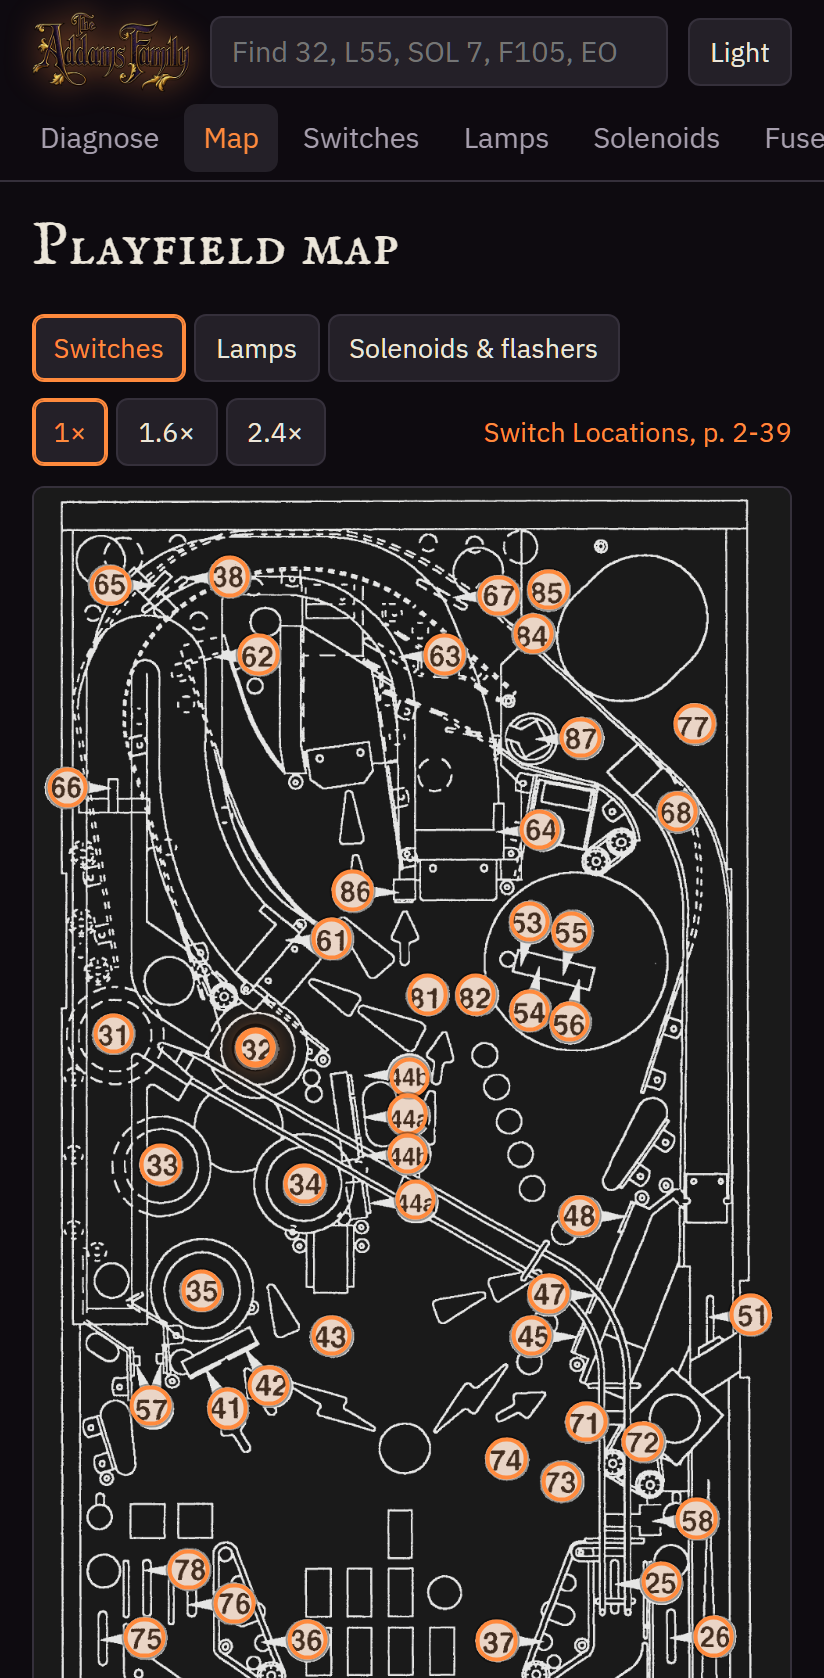
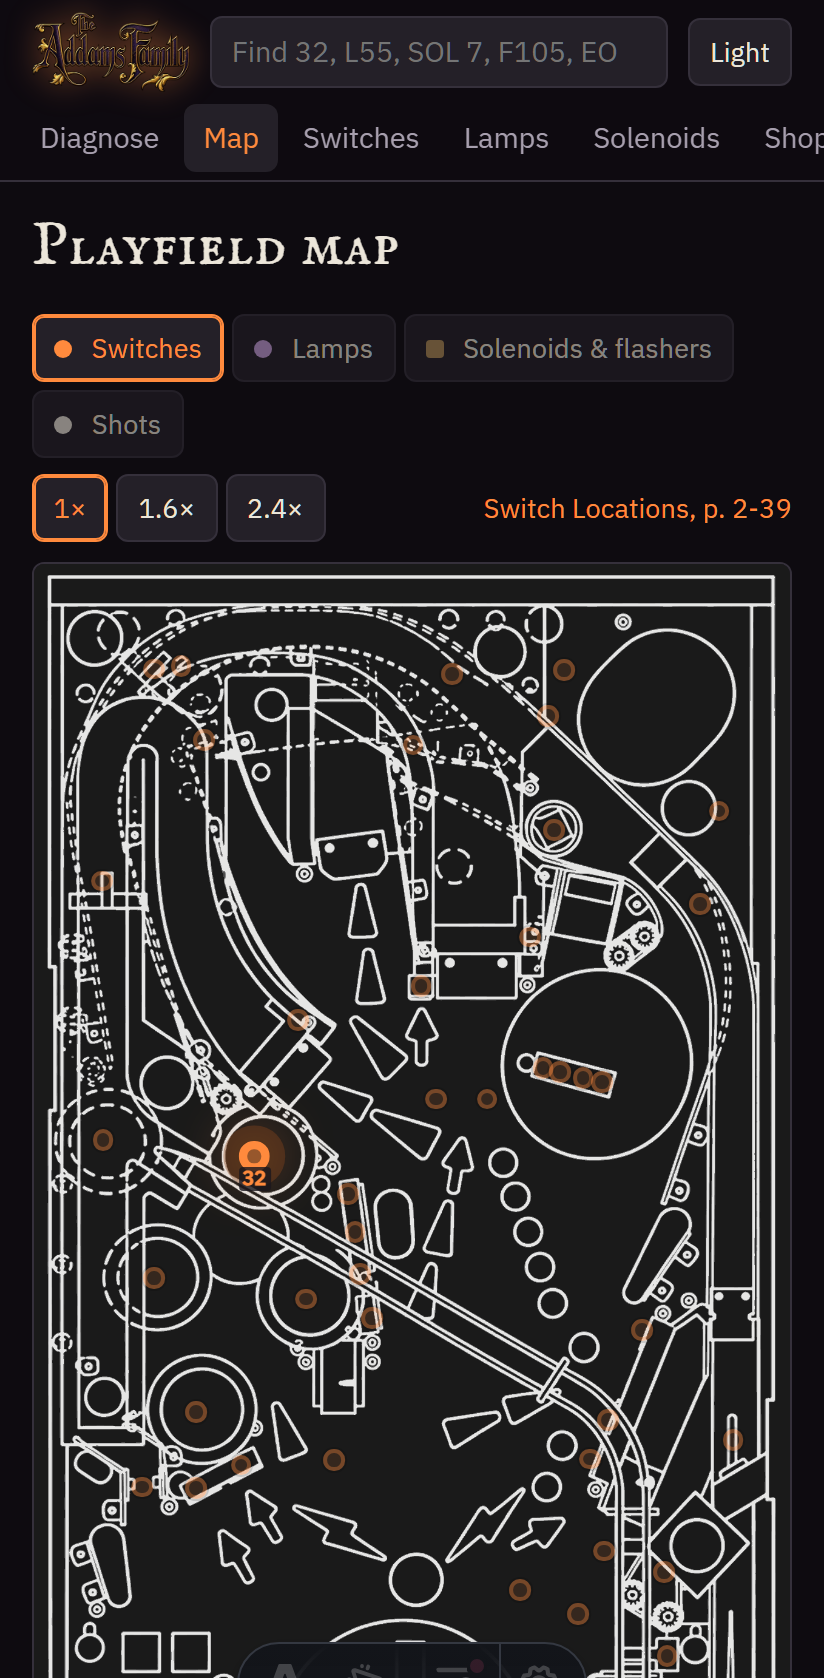
Update playfield map and appendices integration; refine calibration details and enhance documentation

Changed region(s): [[0.0303, 0.1859, 0.9709, 1.0], [0.9405, 0.062, 1.0, 0.093]]

diff --git a/src/components/PlayfieldMap.svelte b/src/components/PlayfieldMap.svelte
@@ -382,9 +382,9 @@
           <h2>Playfield</h2>
           <p class="muted">Tap a marker on the drawing, or pick from the list.</p>
           <p class="prov">
-            Positions are remapped from the manual's location maps (pages 2-39 to 2-41) and shot
-            maps (PDF pages 9–10). A marker that still sits beside its part is where the printed
-            callout was.
+            Positions were remapped from the manual's location maps (pages 2-39 to 2-41) and shot
+            maps (PDF pages 9–10), then placed by hand over the original scans. Off-playfield parts
+            (Start button, THING and credit lamps) sit on the nearest edge.
           </p>
         </div>
       {/if}

diff --git a/README.md b/README.md
@@ -24,16 +24,16 @@ the wiring, the location on the playfield, the manual page and a note about what
 usually goes wrong. It is a static Astro site with Svelte islands, installable
 as a PWA and fully usable offline under the playfield glass.
 
-|      Diagnose       | Playfield map | Switch matrix |
-| :-----------------: | :-----------: | :-----------: |
-|   ![Diagnose][s1]   |  ![Map][s2]   | ![Matrix][s3] |
-| paste `32 68 F1 F3` | switch layer  | 8×8 + tables  |
+|      Diagnose       |       Playfield map       | Switch matrix |
+| :-----------------: | :-----------------------: | :-----------: |
+|   ![Diagnose][s1]   |        ![Map][s2]         | ![Matrix][s3] |
+| paste `32 68 F1 F3` | switch layer, one drawing | 8×8 + tables  |
 
 [s1]: docs/readme/phone-diagnose.png
 [s2]: docs/readme/phone-map.png
 [s3]: docs/readme/phone-switches.png
 
-![Desktop light theme: playfield map with the component card for switch 32 Upper Right Jet](docs/readme/desktop-map.png)
+![Desktop light theme: playfield map on the clean drawing, all three component layers on, with the card for switch 32 Upper Right Jet](docs/readme/desktop-map.png)
 
 _Dark on the phone in the workshop, light on the desk. The toggle lives in the
 header._
@@ -41,14 +41,19 @@ header._
 ## Features
 
 - **Diagnose.** Paste a Test Report line, a whole report or a display message.
-  One card per component with wiring chips, mini-map, callout link, status +
-  note, and a shared-cause check across switch and lamp columns and rows,
+  One card per component with wiring chips, a mini-map on the playfield
+  drawing, callout link, status + note, and a shared-cause check across switch and lamp columns and rows,
   connectors and EOS mechanics.
-- **Playfield map.** One clean drawing with switch, lamp, solenoid and shot
-  layers, any combination, at three zoom levels; the selected part pulses and the
-  rest dims. `?calib=1` lets you drag markers over a frame-aligned overlay of the original scan and copy the JSON.
-  Markers take the colour of their status. `?layer&id` in the URL, so a link
-  opens the same view.
+- **Playfield map.** One clean line drawing of the playfield with switch,
+  lamp, solenoid and shot layers (the manual's lettered shots A–S), any
+  combination, at three zoom levels. The selected part pulses and the rest
+  dims; markers take the colour of their status. Positions were remapped from
+  the manual's three location maps and two shot maps, then placed by hand by
+  the owner against the original scans. `?layer=sw,shot&id=K` in the URL, so a
+  link opens the same view, and the rules section of the handbook embeds the
+  map with the shots on. `?calib=1` is the calibration mode: drag or arrow-key
+  markers over a frame-aligned overlay of the original scan and copy the JSON
+  into `src/data/positions.json`.
 - **Matrices & tables.** 8×8 switch and lamp matrices with keyboard navigation.
   Dedicated tables for J205, Fliptronics J806, solenoids, flashers, flipper
   coils, GI, fuses by board, LEDs and the jumper pointer.
@@ -82,8 +87,9 @@ header._
   component page as "Service notes".
 - **Device data.** Download every status as a JSON backup and read it back on
   another phone, merge or replace.
-- **Offline.** Manifest, icons, precached shell, data, maps and figures. Scans
-  are cached on first view.
+- **Offline.** Manifest, icons, precached shell, data, the playfield drawing
+  and figures. Scans (manual pages and calibration overlays) are cached on
+  first view.
 
 ## Quick start
 
@@ -136,19 +142,33 @@ Handbook pages are rendered by a custom content loader
 the source data are mapped to the English UI in
 [`src/lib/data/en.ts`](src/lib/data/en.ts).
 
+Three things are this repo's own and not synced from the kit:
+
+- [`src/data/positions.json`](src/data/positions.json): marker positions on
+  the clean drawing `public/assets/maps/playfield.png`, keyed `kind:id`
+  (`switch`, `lamp`, `coil`, `shot`), normalised 0–1. Seeded from the kit's
+  `loc` callouts and the shot-map arrow tips, then calibrated by hand in
+  `/map?calib=1`. The kit's `loc` stays untouched; the three scanned location
+  maps it refers to are kept only as calibration overlays.
+- [`src/data/shots.ts`](src/data/shots.ts): the lettered shots A–S with their
+  manual page.
+- [`src/data/overlays.json`](src/data/overlays.json): where each scan sits over
+  the drawing so its playfield frame lines up (computed once by frame detection).
+
 ## Project layout
 
 ```text
 src/
 ├── components/   Svelte islands: Diagnose, PlayfieldMap, Matrix, PageViewer, …
-├── lib/          codes, shared cause, handbook loader, data mapping, status
+├── data/         kit/ (synced), positions.json, shots.ts, overlays.json, owner data
+├── lib/          codes, shared cause, handbook loader, data mapping, positions, status
 ├── pages/        diagnose (index), map, matrices, parts, handbook, manual
 ├── styles/       tokens.css (palette, type, spacing), base.css
 └── content/      handbook pages (synced from the kit)
 public/           data, assets, fonts, icons (synced or generated), brand/logo.webp
 scripts/          sync-kit, copy-fonts, icons, thumbnails
 tests/            vitest + Playwright e2e
-kit-docs/         build prompt, machine notes, known issues (synced from the kit)
+kit-docs/         build prompt, data schema, machine notes, knowledge bank, known issues
 ```
 
 ## Design
@@ -182,6 +202,10 @@ Recorded from the owner (§10 of the build prompt):
   adapter.
 - The project lives in the sibling folder `../valvet`; the kit is read-only
   source.
+- One clean playfield drawing with combinable layers instead of the prompt's
+  three location diagrams with markers at the printed callouts. The manual's
+  callouts remain in the kit data; the app's positions were calibrated by the
+  owner on 2026-09-24.
 - Astro 7 instead of the Astro 5 the prompt mentions. `pnpm-workspace.yaml` sets
   `minimumReleaseAge: 0` so current releases install.
 - Repo

diff --git a/kit-docs/DATA-SCHEMA.md b/kit-docs/DATA-SCHEMA.md
@@ -93,6 +93,8 @@ Headers: `lCols`, `lRows` → `[wireSv, wireEn, connectorPin, transistor]`.
 
 `{ sw: {w, h, page}, lamp: {...}, coil: {...} }` — pixel size of each map image in `assets/maps/` and the PDF page it was cropped from (97, 98, 99). `loc` coordinates are normalised to these images.
 
+> **App note (valvet repo, 2026-09-24).** The app no longer draws markers on these three scans. It keeps its own `src/data/positions.json` (keys `switch:ID`, `lamp:ID`, `coil:ID`, `shot:LETTER`, normalised to the clean drawing `assets/maps/playfield.png`, 1246×2702), seeded from `loc` and the shot-map arrow tips and then calibrated by hand by the owner. `loc` and `maps` stay as the manual's record; the scans are used only as calibration overlays (`src/data/overlays.json`).
+
 ---
 
 ## `data/callouts-page-relative.json`
@@ -126,7 +128,7 @@ Array of rows from `source/Parts_List.txt` (the factory indented bill of materia
 ## `assets/`
 
 - `assets/pages/ops/N.png` (N = 1…124; page 1 is `1.jpg`, the colour cover), `assets/pages/hb/N.png` (1…12), `assets/pages/wpc/1.png` + tiles. All greyscale PNGs quantised to 4 levels (2-bit), 180 dpi for ops/hb, 150 dpi for wpc.
-- `assets/maps/{sw,lamp,coil}.png` — the three location diagrams, cropped at 250 dpi.
+- `assets/maps/{sw,lamp,coil}.png` — the three location diagrams, cropped at 250 dpi. In the app they serve as calibration overlays under `/map?calib=1`; the map itself draws on `playfield.png` (app-side, not in the kit).
 - `assets/figures/ops9.png, ops10.png` (shot maps A–S), `ops12.png` (leg leveler/pitch), `ops14.png` (coin door buttons), `ops17.png` (menu tree — superseded by the HTML menu map in `ops017.md`, kept for reference), `ops56a.png` (CPU board LEDs), `ops56b.png` (Power Driver LEDs/fuses), `ops57.png` (fuse locations, all boards).
 
 In dark theme the prototype inverts scans with `filter: invert(.9) hue-rotate(180deg)`; do the same or better.

diff --git a/CHANGELOG.md b/CHANGELOG.md
@@ -8,8 +8,11 @@
   status; the selected part pulses and the others dim, and all three kinds can
   be shown at once. Positions live in `src/data/positions.json`, seeded by
   remapping the manual's callouts and corrected by hand in the new calibration
-  mode (`/map?calib=1`: drag or arrow-key a marker, copy the JSON). The manual's
-  callout coordinates stay untouched in the kit data.
+  mode (`/map?calib=1`: drag or arrow-key a marker, copy the JSON). The owner
+  calibrated all 17 shots and 95 component markers against the overlays on
+  2026-09-24; only off-playfield parts (Start button, THING and credit lamps)
+  sit on the edge. The manual's callout coordinates stay untouched in the kit
+  data.
 - **Shots layer and combinable layers.** The manual's two shot maps (PDF pages 9
   and 10, letters A–S) become a fourth layer on the drawing, seeded from the
   arrow tips of the figures. The layer buttons now toggle, so any combination
